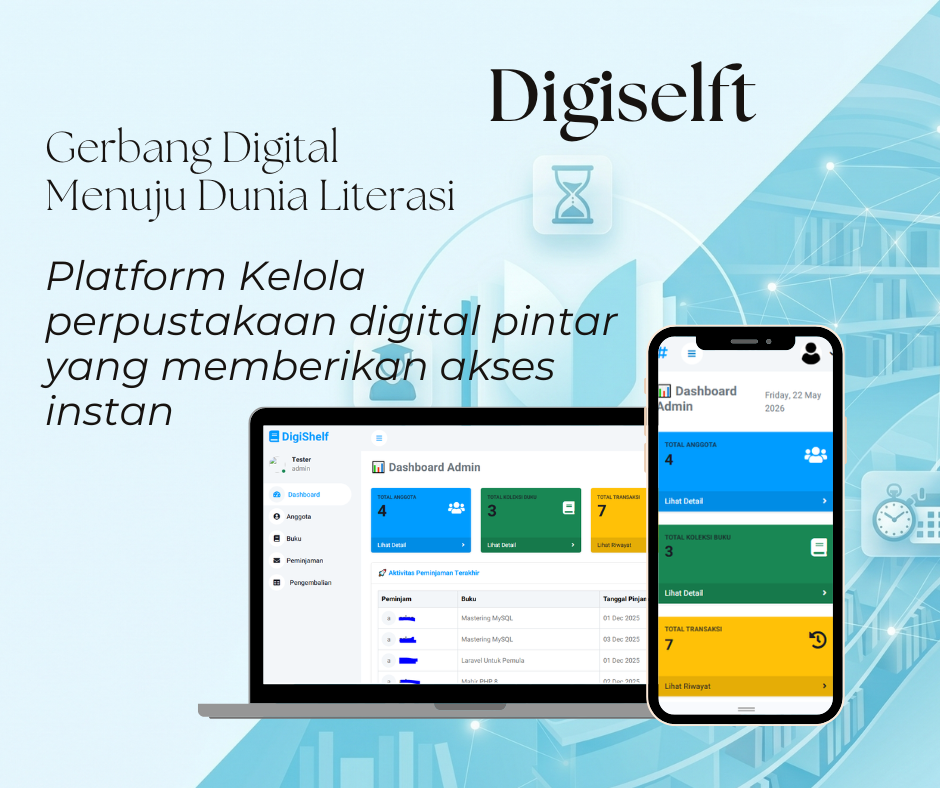
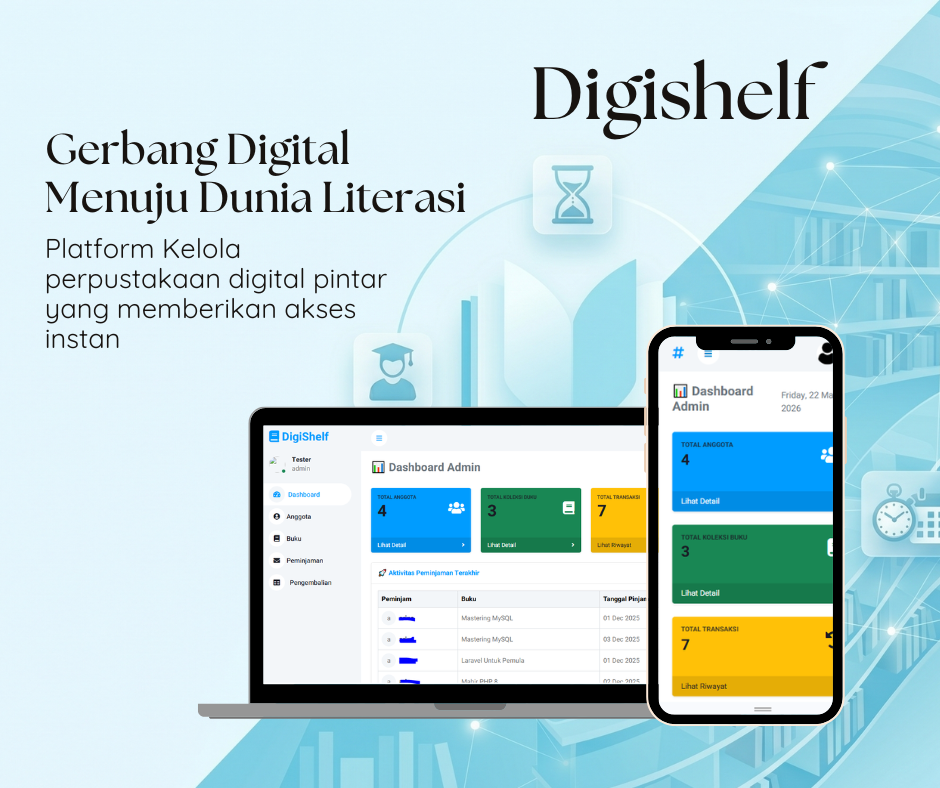
change

diff --git a/src/components/Projects.jsx b/src/components/Projects.jsx
@@ -10,60 +10,60 @@ export default function Projects() {
   };
 
   const projects = [
-    {
-      id: 1,
-      title: "Sistem Surat Perintah Lembur (SPL)",
-      desc: "Sistem otomasi lembur terintegrasi dengan fitur Digital Signature berbasis QR Code. Dikembangkan menggunakan pendekatan Agile dan Laravel untuk efisiensi birokrasi perusahaan.",
-      tech: ["Laravel", "PostgreSQL", "QR Code"],
-      image: "/dokumentasi/spl.png",
-      githubLink: "#",
-      liveLink: "#"
-    },
-    {
-      "id": 2,
-  "title": "Medipluse",
-  "desc": "Proyek tugas akhir kelompok untuk program MSIB Batch 7 di Rakamin Academy sebagai Full Stack Developer. Aplikasi ini dirancang untuk mendigitalisasi dan mengintegrasikan manajemen layanan kesehatan pribadi pengingat jam minum obat.",
-  "tech": ["Laravel", "MySQL", "Bootstrap" , "API Integration", "Python"],
-  "image": "/dokumentasi/digi.png",
-  "githubLink": "#",
-  "liveLink": "#"
-    },
-    {
-      "id": 3,
-  "title": "SIMPG (Sistem Informasi Manajemen Pura Engineering)",
-  "desc": "Sistem informasi internal terintegrasi untuk mendigitalisasi, memonitor, dan mengotomatisasi manajemen operasional, administrasi, serta pelaporan data pada divisi Engineering PT. Pura Barutama.",
-  "tech": ["Laravel", "PostgreSQL", "Bootstrap", "jQuery"],
-  "image": "/dokumentasi/simpgg.png",
-  "githubLink": "#",
-  "liveLink": "#"
-    },
-    {
-      id: 4,
-      title: "Digiself",
-      desc: "Pengembangan sistem manajemen data mahasiswa dan dosen dengan antarmuka yang responsif dan mudah digunakan.",
-      tech: ["Laravel", "Tailwind", "MySQL"],
-      image: "/dokumentasi/perpus.png",
-      githubLink: "#",
-      liveLink: "#"
-    },
-    {
-      id: 5,
-      title: "RESTful API Backend Service",
-      desc: "Membangun arsitektur backend yang tangguh untuk melayani berbagai endpoint aplikasi mobile dan web client dengan tingkat keamanan tinggi.",
-      tech: ["Node.js", "MongoDB"],
-      image: "https://via.placeholder.com/600x400",
-      githubLink: "#",
-      liveLink: "#"
-    },
-    {
-      id: 6,
-      title: "Interactive Web Portofolio",
-      desc: "Portofolio interaktif yang dibangun dengan animasi modern untuk memamerkan perjalanan karir dan keahlian teknis.",
-      tech: ["React", "Framer Motion"],
-      image: "https://via.placeholder.com/600x400",
-      githubLink: "#",
-      liveLink: "#"
-    }
+ {
+    "id": 1,
+    "title": "Overtime Order System (SPL)",
+    "desc": "An integrated overtime automation system featuring QR Code-based Digital Signatures. Developed using the Agile methodology and Laravel framework to optimize corporate administrative efficiency.",
+    "tech": ["Laravel", "PostgreSQL", "QR Code"],
+    "image": "/dokumentasi/spl.png",
+    "githubLink": "#",
+    "liveLink": "#"
+  },
+  {
+    "id": 2,
+    "title": "Medipluse",
+    "desc": "A collaborative capstone project for the MSIB Batch 7 program at Rakamin Academy, developed as a Full Stack Developer. This application digitizes and integrates personal healthcare management with automated medication reminders.",
+    "tech": ["Laravel", "MySQL", "Bootstrap", "API Integration", "Python"],
+    "image": "/dokumentasi/digi.png",
+    "githubLink": "#",
+    "liveLink": "#"
+  },
+  {
+    "id": 3,
+    "title": "SIMPG (Pura Engineering Management Information System)",
+    "desc": "An integrated internal information system designed to digitize, monitor, and automate operational management, administration, and data reporting within the Engineering Division of PT. Pura Barutama.",
+    "tech": ["Laravel", "PostgreSQL", "Bootstrap", "jQuery"],
+    "image": "/dokumentasi/simpg.png",
+    "githubLink": "#",
+    "liveLink": "#"
+  },
+  {
+    "id": 4,
+    "title": "Digishelf",
+    "desc": "A modern library management system developed to optimize book cataloging, track circulation and borrowing history, and manage member data in real-time.",
+    "tech": ["Laravel", "Tailwind", "MySQL"],
+    "image": "/dokumentasi/perpus.png",
+    "githubLink": "https://github.com/HendrikaRes/DigiShelf_",
+    "liveLink": "#"
+  },
+  {
+    "id": 5,
+    "title": "Employee E-Attendance (QR Code)",
+    "desc": "An automated employee attendance management system integrated with QR Code signatures to improve checking efficiency, eliminate manual paperwork, and enhance data tracking security.",
+    "tech": ["Laravel", "MySQL", "Bootstrap"],
+    "image": "/dokumentasi/abs.png",
+    "githubLink": "#",
+    "liveLink": "#"
+  },
+  {
+    "id": 6,
+    "title": "Maintenix - Smart Mobile Maintenance Application",
+    "desc": "A smart mobile maintenance application equipped with automated damage classification features that analyze machine temperature, RPM, and voltage to predict and identify faults in real-time.",
+    "tech": ["Flutter", "Python", "PostgreSQL"],
+    "image": "/dokumentasi/mesin.png",
+    "githubLink": "#",
+    "liveLink": "#"
+  }
   ];
 
   return (
@@ -123,9 +123,6 @@ export default function Projects() {
                 <div className="absolute inset-0 bg-slate-950/60 opacity-0 group-hover:opacity-100 transition-opacity duration-300 flex items-center justify-center gap-4">
                   <a href={project.githubLink} className="p-3 bg-slate-800 hover:bg-blue-600 rounded-full text-white transition-all transform translate-y-4 group-hover:translate-y-0 duration-300 shadow-lg" title="Lihat Source Code">
                     <svg viewBox="0 0 24 24" className="w-6 h-6 fill-current"><path d="M12 2C6.477 2 2 6.477 2 12c0 4.42 2.865 8.166 6.839 9.489.5.092.682-.217.682-.482 0-.237-.008-.866-.013-1.7-2.782.603-3.369-1.34-3.369-1.34-.454-1.156-1.11-1.462-1.11-1.462-.908-.62.069-.608.069-.608 1.003.07 1.531 1.03 1.531 1.03.892 1.529 2.341 1.087 2.91.831.092-.646.35-1.086.636-1.336-2.22-.253-4.555-1.11-4.555-4.943 0-1.091.39-1.984 1.029-2.683-.103-.253-.446-1.27.098-2.647 0 0 .84-.269 2.75 1.025A9.578 9.578 0 0112 6.836c.85.004 1.705.114 2.504.336 1.909-1.294 2.747-1.025 2.747-1.025.546 1.379.203 2.394.1 2.647.64.699 1.028 1.592 1.028 2.683 0 3.842-2.339 4.687-4.566 4.935.359.309.678.919.678 1.852 0 1.336-.012 2.415-.012 2.743 0 .267.18.578.688.48C19.138 20.161 22 16.416 22 12c0-5.523-4.477-10-10-10z" /></svg>
-                  </a>
-                  <a href={project.liveLink} className="p-3 bg-slate-800 hover:bg-emerald-500 rounded-full text-white transition-all transform translate-y-4 group-hover:translate-y-0 duration-300 delay-75 shadow-lg" title="Live Preview">
-                    <svg xmlns="http://www.w3.org/2000/svg" className="w-6 h-6" fill="none" viewBox="0 0 24 24" stroke="currentColor"><path strokeLinecap="round" strokeLinejoin="round" strokeWidth={2} d="M10 6H6a2 2 0 00-2 2v10a2 2 0 002 2h10a2 2 0 002-2v-4M14 4h6m0 0v6m0-6L10 14" /></svg>
                   </a>
                 </div>
               </div>

diff --git a/src/components/Hero.jsx b/src/components/Hero.jsx
@@ -26,40 +26,40 @@ export default function Hero() {
           {/* Badge Kecil Estetik */}
           <div className="inline-flex items-center gap-2 px-4 py-1.5 rounded-full border border-blue-500/30 bg-blue-500/10 text-blue-400 text-sm font-medium mb-6 animate-pulse hover:bg-blue-500/20 transition-colors cursor-default">
             <span className="w-2 h-2 rounded-full bg-blue-500"></span>
-            Tersedia untuk Kerja / Magang
+            Open to Work / Internship
           </div>
 
-          {/* Heading dengan Sorotan Warna */}
-          <h1 className="text-5xl md:text-6xl font-extrabold mb-6 tracking-tight leading-tight text-white">
-            Saya <span className="bg-gradient-to-r from-blue-400 to-emerald-400 bg-clip-text text-transparent">Hendrik</span>
-            <br />
-            {/* Efek Ngetik Animasi */}
-            <span className="text-4xl md:text-5xl text-slate-300 font-bold block mt-2 h-[60px]">
-              <TypeAnimation
-                sequence={[
-                  'Web Developer',
-                  2000, // jeda 2 detik
-                  'Fullstack Developer',
-                  2000,
-                  'Laravel & React',
-                  2000,
-                ]}
-                wrapper="span"
-                speed={50}
-                repeat={Infinity}
-              />
-            </span>
-          </h1>
+          {/* Heading with Color Highlight */}
+<h1 className="text-5xl md:text-6xl font-extrabold mb-6 tracking-tight leading-tight text-white">
+  I am <span className="bg-gradient-to-r from-blue-400 to-emerald-400 bg-clip-text text-transparent">Hendrik</span>
+  <br />
+  {/* Animated Typing Effect */}
+  <span className="text-4xl md:text-5xl text-slate-300 font-bold block mt-2 h-[60px]">
+    <TypeAnimation
+      sequence={[
+        'Web Developer',
+        2000, // 2-second pause
+        'Fullstack Developer',
+        2000,
+        'Laravel & React Expert',
+        2000,
+      ]}
+      wrapper="span"
+      speed={50}
+      repeat={Infinity}
+    />
+  </span>
+</h1>
 
-          {/* Deskripsi Profesional */}
-          <motion.p 
-            initial={{ opacity: 0 }}
-            animate={{ opacity: 1 }}
-            transition={{ delay: 0.5, duration: 0.8 }}
-            className="text-slate-400 max-w-2xl mx-auto md:mx-0 mb-10 text-lg leading-relaxed"
-          >
-           Lulusan Sistem Informasi yang adaptif dan memiliki antusiasme tinggi untuk mempelajari teknologi baru. Berpengalaman dalam mengoptimalisasi sistem internal yang efisien, dengan spesialisasi pada arsitektur Backend menggunakan <span className="text-slate-200 font-medium">Laravel</span> dan pengembangan antarmuka Frontend yang modern berbasis <span className="text-slate-200 font-medium">React.js</span>.
-          </motion.p>
+{/* Professional Description */}
+<motion.p 
+  initial={{ opacity: 0 }}
+  animate={{ opacity: 1 }}
+  transition={{ delay: 0.5, duration: 0.8 }}
+  className="text-slate-400 max-w-2xl mx-auto md:mx-0 mb-10 text-lg leading-relaxed"
+>
+  An adaptable Information Systems graduate with a high enthusiasm for exploring new technologies. Experienced in optimizing efficient internal systems, specializing in robust Backend architecture using <span className="text-slate-200 font-medium">Laravel</span> and crafting modern, interactive Frontend interfaces built on <span className="text-slate-200 font-medium">React.js</span>.
+</motion.p>
 
           {/* Tombol Aksi */}
           <motion.div 